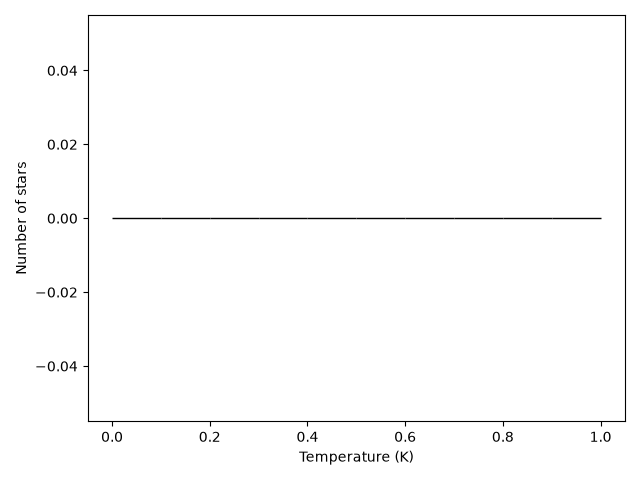
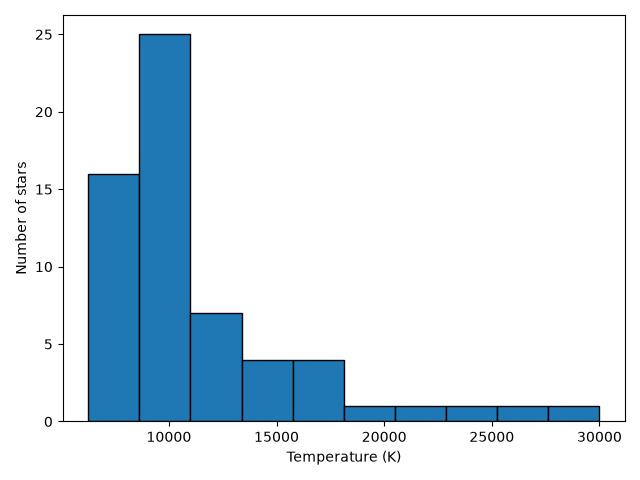
changed clean_eso to fix broken quotes along with the broken rows

diff --git a/src/plot_teff.py b/src/plot_teff.py
@@ -6,7 +6,6 @@ stars = pd.read_csv("data/catalogues/fairlamb_2015.csv")
 eso_stars = clean_eso("data/fairlamb_2015_eso_export.csv")
 
 # get xshooter observations, then keep the near infrared ones
-print(eso_stars["ins_id"].unique())
 xshooter = eso_stars[eso_stars["ins_id"] == "XSHOOTER"]
 nir = xshooter[xshooter["obs_title"].str.contains("_NIR_", na = False)]
 
@@ -18,14 +17,6 @@ nir_names = nir["obj"].str.replace(r"[\s-]", "", regex = True).str.lower()
 observed_stars = stars[star_names.isin(nir_names)]
 
 # plot temperatures and save the figure
-
-# test
-print("ESO rows:", len(eso_stars))
-print("X-shooter rows:", len(xshooter))
-print("NIR rows:", len(nir))
-print("Matched stars:", len(observed_stars))
-print("Temperatures:", observed_stars["Teff"].head())
-
 plt.hist(observed_stars["Teff"], bins = 10, edgecolor = "black")
 plt.xlabel("Temperature (K)")
 plt.ylabel("Number of stars")

diff --git a/src/utils/clean_eso.py b/src/utils/clean_eso.py
@@ -10,5 +10,9 @@ def clean_eso(input_name):
     # repiar broken rows
     data = data.replace("truehttp://archive.eso.org/", "true\nhttp://archive.eso.org/")
 
+    # fix broken quotes
+    data = data.replace('"["', '"[""')
+    data = data.replace('"]"', '""]"')
+
     return pd.read_csv(StringIO(data))
 
